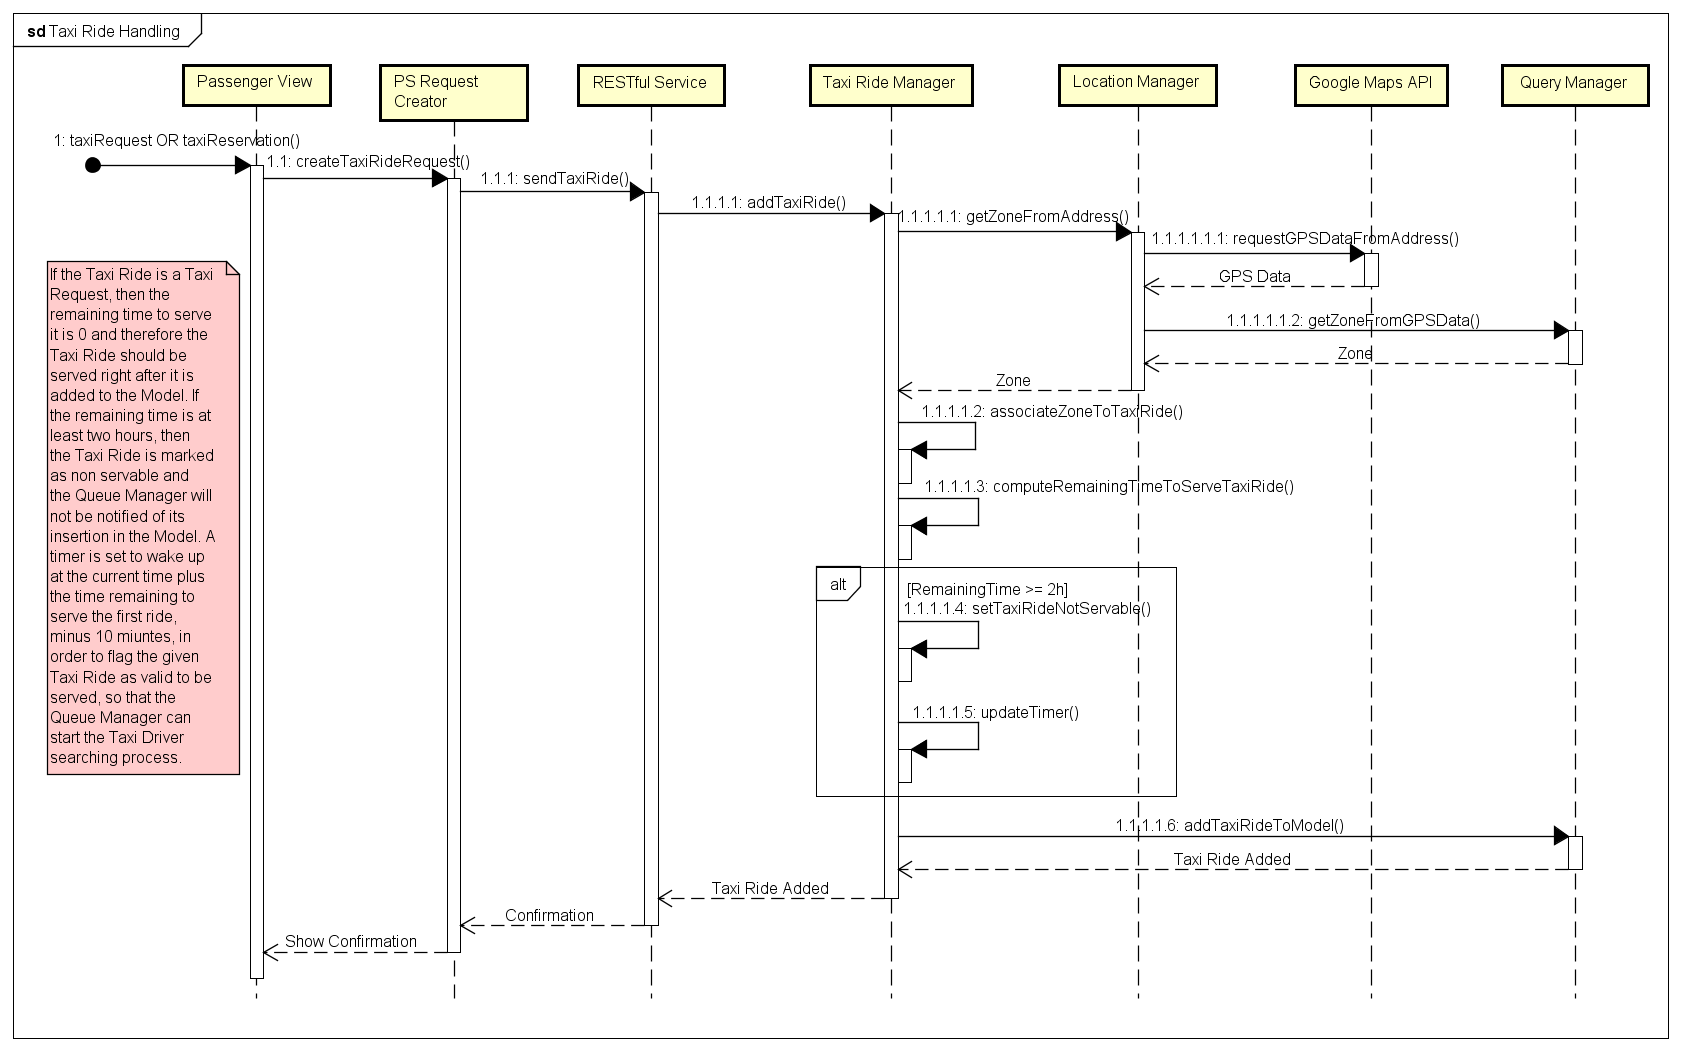
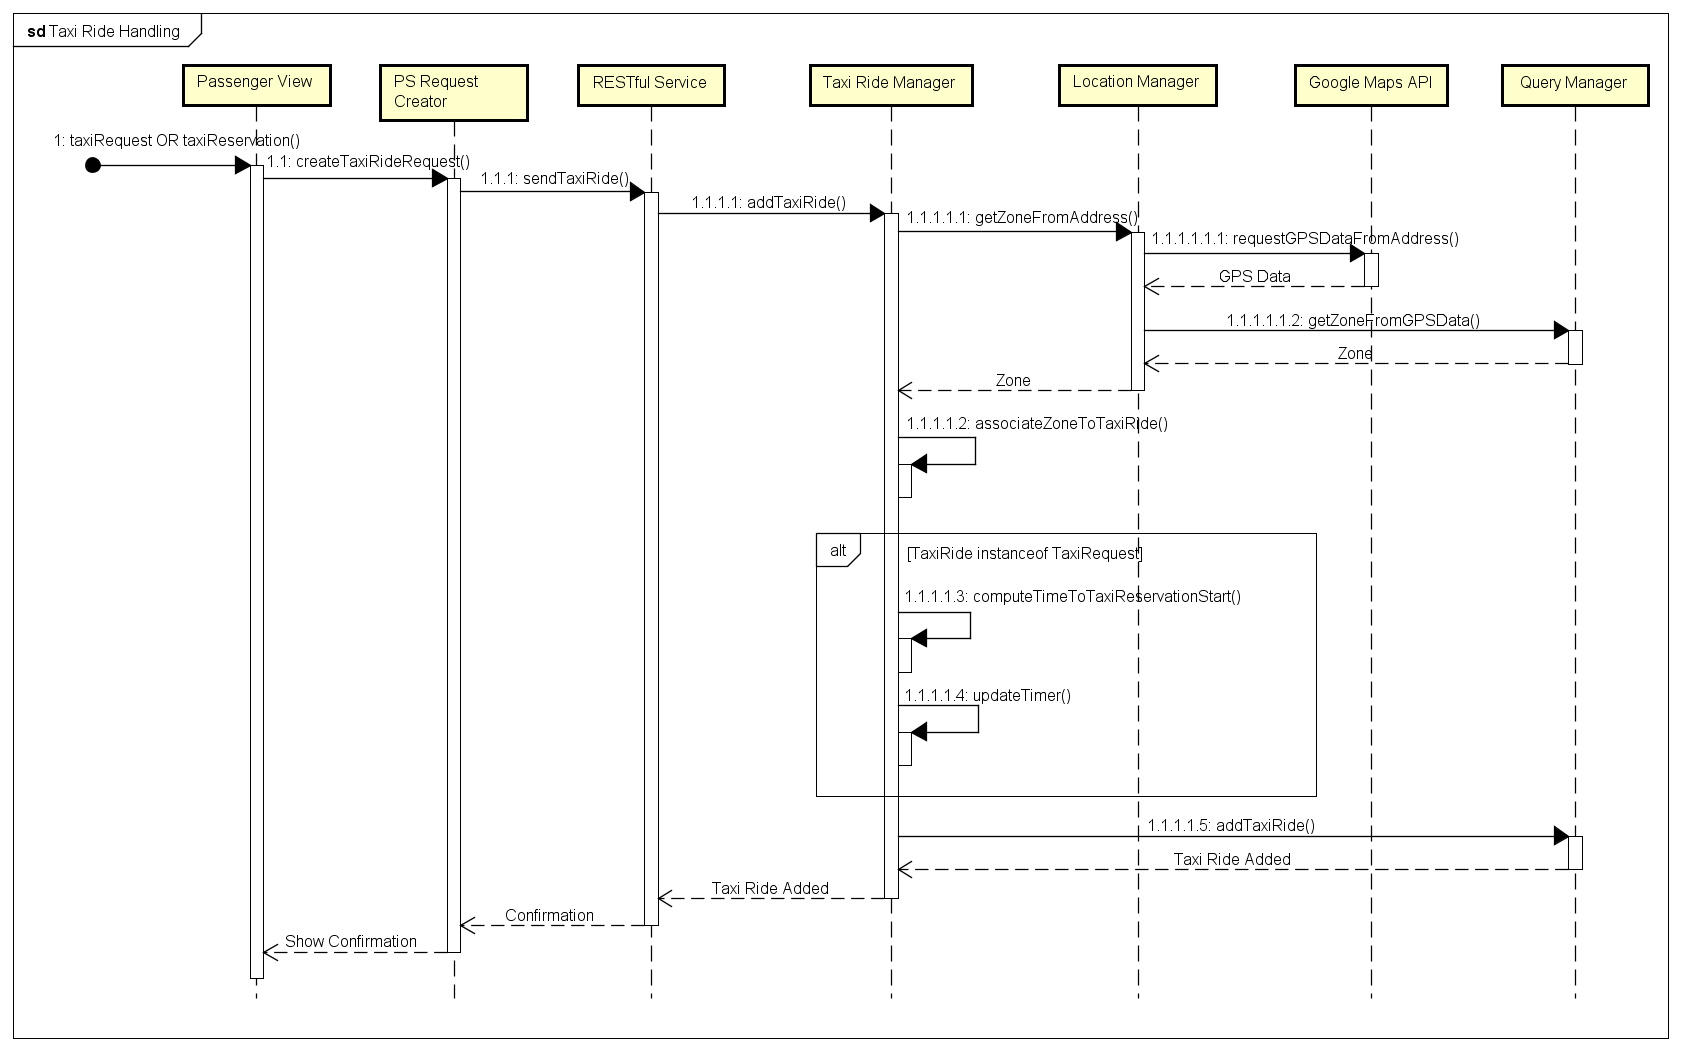
Updates.

diff --git a/dd/section_4/section_4.tex b/dd/section_4/section_4.tex
@@ -1,2 +1,46 @@
 \section{User Interface Design}
 %TODO Provide an overview on how the user interface(s) of your system will look like. If you have included this part in the RASD, you can simply refer to what you have already done, possibly, providing here some extensions if applicable. fare mockup admin-> registra tassisti (programma dedicato .jar) fillare campi e submit registration
+Three different graphical user interfaces are provided: two of them for both registered and non registered passengers and one for the taxi drivers.\par
+One of the two graphical interfaces provided for both kind of passengers is web based and uses web pages to present the content of a web application, and the other one is that of a smartphone application\par
+The GUI provided for taxi drivers is that of a smartphone application.\par
+No additional user interfaces are provided, not graphical nor textual.
+Below are provided the mockups of the  most significant features guaranteed by the application.\par
+Firstly are shown the screens of the passenger interface, putting beside the application and the web-application ones, with the aim of showing an example of the different space management. \par 
+\newpage
+\paragraph{Passenger mockups}
+\begin{itemize}
+	\unbreakableItem{Homepage
+		\showRPMockupImage{Homepage}{\myTaxiService{} homepage.}}
+	\unbreakableItem{Registration
+		\showRPMockupImage{Registration}{Registration screens.}}
+	\unbreakableItem{Login
+		\showRPMockupImage{Login}{Login screens.}}
+	\unbreakableItem{Empty registered passenger home page
+		\showRPMockupImage{RegisteredPassengerHomePage}{State 1 of RP home page.}}
+	\unbreakableItem{Request a taxi home page
+		\showRPMockupImage{RequestTaxi}{Taxi request.}}
+	\unbreakableItem{Reserve a taxi home page
+		\showRPMockupImage{ReserveTaxi}{Taxi Reservation.}}
+	\unbreakableItem{Registered passenger home page
+		\showRPMockupImage{RegisteredPassengerHomePage2}{State 2 of RP home page.}}
+	\unbreakableItem{Cancellation of a ride in registered passenger home page
+		\showRPMockupImage{RegisteredPassengerHomePage3}{State 3 of RP home page.}}
+\end{itemize}
+\newpage
+\paragraph{Taxi Driver mockups}
+\begin{itemize}
+	\unbreakableItem{Homepage
+		\showTDMockupImage{HomePageDriver}{TD homepage.}}
+	\unbreakableItem{Login
+		\showTDMockupImage{LoginDriver}{TD login page.}}
+	\unbreakableItem{Empty driver home page
+		\showTDMockupImage{TaxiDriverScreen3}{State 1 of TD personal page.}}
+	\unbreakableItem{Taxi driver home page with a pending request
+		\showTDMockupImage{TaxiDriverScreen1}{State 2 of TD personal page.}}
+	\unbreakableItem{Taxi driver home page while serving a request
+		\showTDMockupImage{TaxiDriverScreen2}{State 3 of TD personal page.}}
+	\unbreakableItem{Report problem
+		\showTDMockupImage{ReportProblem}{TD report problem screen.}}
+	\unbreakableItem{Report solution
+		\showTDMockupImage{ReportSolution}{TD report solution screen.}}
+\end{itemize}

diff --git a/dd/section_2/section_2.tex b/dd/section_2/section_2.tex
@@ -230,7 +230,8 @@ Di seguito sono descritti i sub-components che interoperano all'interno di ogni 
 \showSequenceDiagram{ps_login}{UML Sequence Diagram - PS Login}{1.0}
 \showSequenceDiagram{queue}{UML Sequence Diagram - Queue Management}{1.0}
 \showSequenceDiagram{taxi_ride_arrived_handling}{UML Sequence Diagram - Taxi Ride Handling}{1.0}
-\showSequenceDiagram{td_position_association}{UML Sequence Diagram - TD Position Management}{1.0}
+\showSequenceDiagram{taxi_ride_arrived_handling}{UML Sequence Diagram - Taxi Ride Handling}{1.0}
+\showSequenceDiagram{tr_timer_expired}{UML Sequence Diagram - Taxi Reservation Timer Expired}{1.0}
 \subsection{Component interfaces}
 Being our system composed of different software components that need to interact together, several interfaces have been put among them.
 Subsequently are listed all the main software components and their interfaces, each one described in detail:

diff --git a/dd/DD.tex b/dd/DD.tex
@@ -5,6 +5,8 @@
 \newcommand{\showDeploymentDiagram}[2]{\showPercentImage{\sectionBaseDir{2}/deployment_diagram/deployment_diagram.png}{#1}{#2}}
 \newcommand{\showSequenceDiagram}[3]{\showPercentImage{\sectionBaseDir{2}/sequence_diagrams/#1_sequence_diagram.png}{#2}{#3}}
 \newcommand{\inputJava}[1]{\lstinputlisting{\sectionBaseDir{3}/java/#1.java}}
+\newcommand{\showRPMockupImage}[2]{\showImage{../srs/section_3/mockups/png_passenger/#1.png}{#2}}
+\newcommand{\showTDMockupImage}[2]{\showPercentImage{../srs/section_3/mockups/png_driver/#1.png}{#2}{0.3}}
 
 \titleSubtitle{Design Document for \myTaxiService{}}{Version 1}
 

diff --git a/dd/section_6/section_6.tex b/dd/section_6/section_6.tex
@@ -1,1 +1,2 @@
 \section{References}
+%TODO Completare
